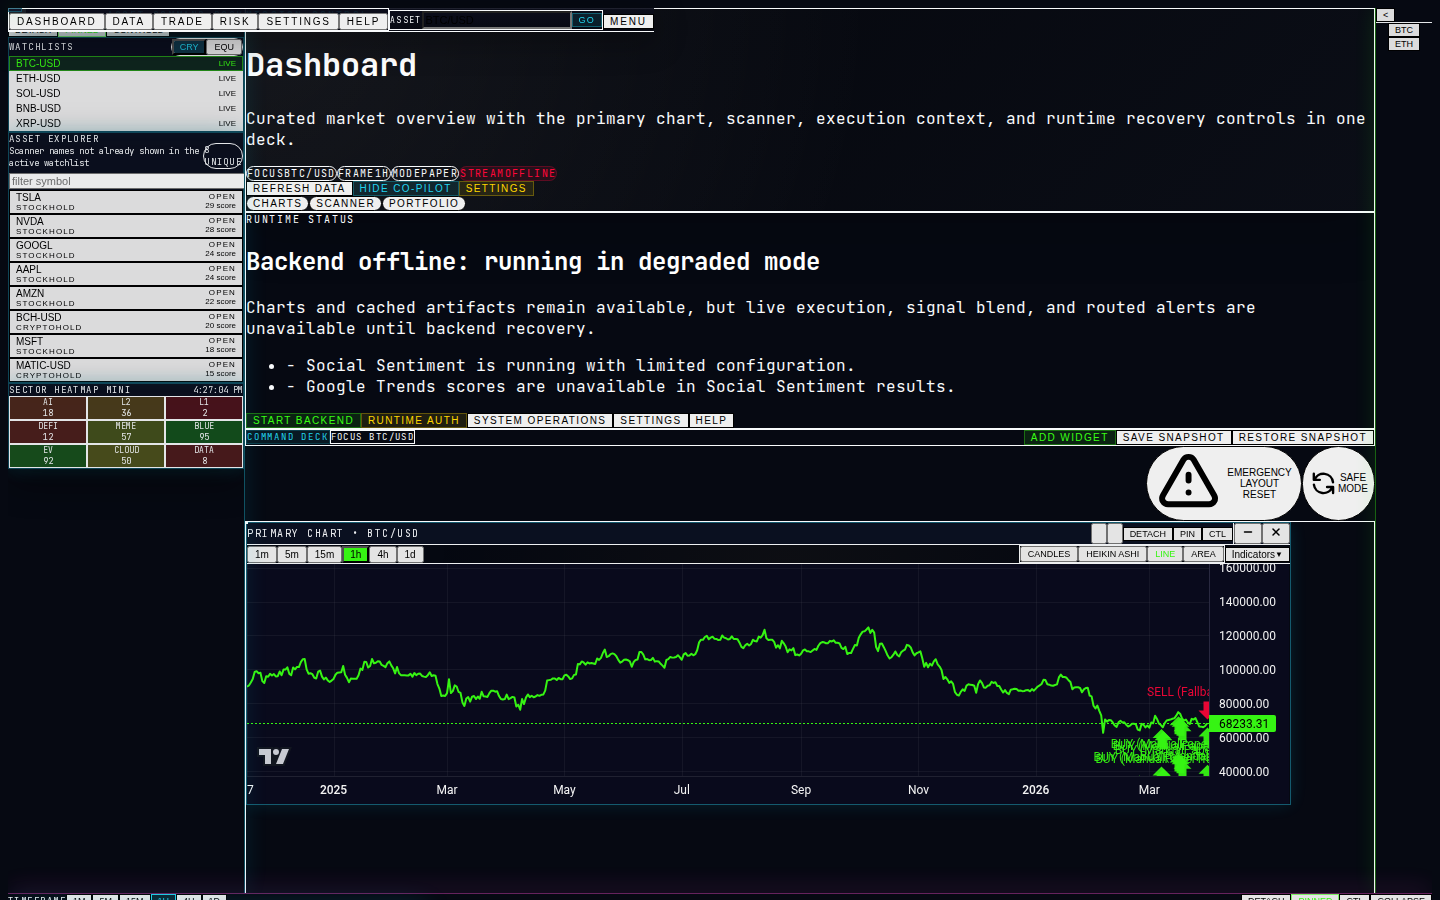
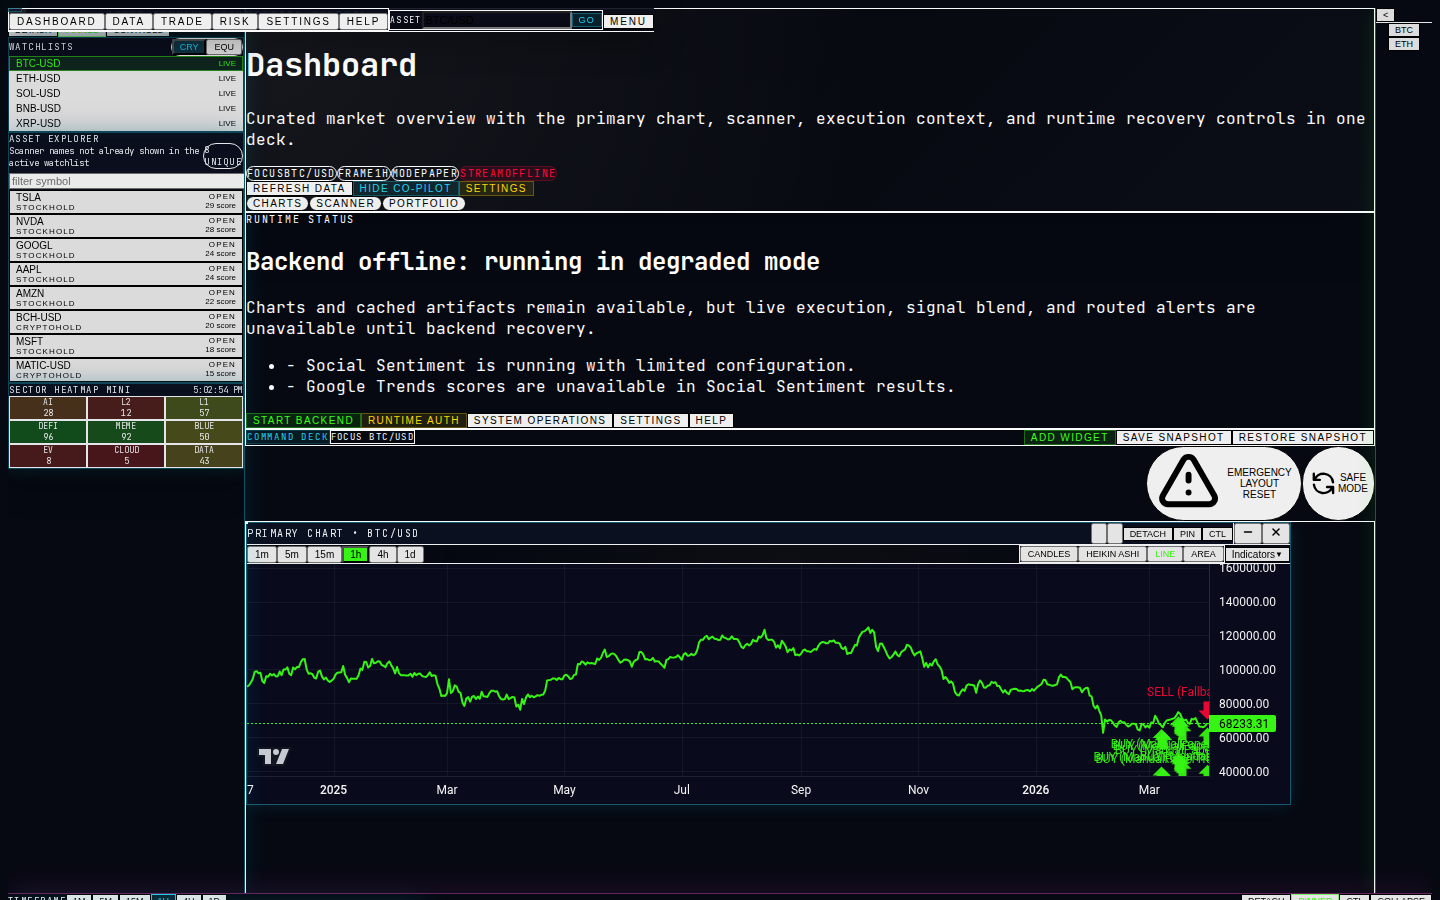
chore(showcase): refresh live app UI screenshots (5 running stacks)
Re-captured manual-tier previews for CandleCompass, IdeaForge, LedgerLoop,
PharmPhreak, and SavigeSystemZ.com; updated operator report and release media.

Changed region(s): [[0.0, 0.4356, 0.1875, 0.5289]]

diff --git a/docs/CATALOG_UI_SCREENSHOT_REPORT.md b/docs/CATALOG_UI_SCREENSHOT_REPORT.md
@@ -1,6 +1,6 @@
 # Catalog UI screenshot report
 
-Generated: 2026-06-07T20:27:08.557Z
+Generated: 2026-06-07T21:02:59.084Z
 
 Site: http://127.0.0.1:43907
 
@@ -9,15 +9,16 @@ Site: http://127.0.0.1:43907
 | Metric | Count |
 |--------|------:|
 | Catalog applications | 52 |
-| Live app UI captured | 4 |
+| Live app UI captured | 5 |
 | Catalog detail captured | 0 |
-| Needs operator action | 48 |
+| Needs operator action | 47 |
 
 ## Live app UI captures
 
 - **CandleCompass** (`candlecompass`) — `/showcase/manual/candlecompass/preview.png` from http://127.0.0.1:3967
 - **IdeaForge** (`ideaforge`) — `/showcase/manual/ideaforge/preview.png` from http://127.0.0.1:41287
 - **LedgerLoop** (`ledgerloop`) — `/showcase/manual/ledgerloop/preview.png` from http://127.0.0.1:3847
+- **PharmPhreak** (`pharmphreak`) — `/showcase/manual/pharmphreak/preview.png` from http://127.0.0.1:38224
 - **SavigeSystemZ.com** (`savigesystemz-com`) — `/showcase/manual/savigesystemz-com/preview.png` from http://127.0.0.1:43907
 
 
@@ -72,8 +73,10 @@ Site: http://127.0.0.1:43907
 
 ### DeepWeave (`deepweave`)
 
-- **Status:** app_no_http_surface
-- **Detail:** No local launch URL in registry or sibling .env.example.
+- **Status:** app_not_running
+- **Detail:** Dev server not responding at http://127.0.0.1:38205.
+- **Expected URL:** http://127.0.0.1:38205
+- **Start hint:** cd /home/whyte/.MyAppZ/DeepWeave && inspect .env.example / ops/LOCAL_DEV_PORTS.md / README for dev start
 
 ### EtherTrain-44 (`ethertrain-44`)
 
@@ -88,13 +91,17 @@ Site: http://127.0.0.1:43907
 
 ### FlipHole (`fliphole`)
 
-- **Status:** app_no_http_surface
-- **Detail:** No local launch URL in registry or sibling .env.example.
+- **Status:** app_not_running
+- **Detail:** Dev server not responding at http://127.0.0.1:38207.
+- **Expected URL:** http://127.0.0.1:38207
+- **Start hint:** cd /home/whyte/.MyAppZ/FlipHole && inspect .env.example / ops/LOCAL_DEV_PORTS.md / README for dev start
 
 ### ForgeCouncil (`forgecouncil`)
 
-- **Status:** app_no_http_surface
-- **Detail:** No local launch URL in registry or sibling .env.example.
+- **Status:** app_not_running
+- **Detail:** Dev server not responding at http://127.0.0.1:38208.
+- **Expected URL:** http://127.0.0.1:38208
+- **Start hint:** cd /home/whyte/.MyAppZ/ForgeCouncil && inspect .env.example / ops/LOCAL_DEV_PORTS.md / README for dev start
 
 ### FWST (`fwst`)
 
@@ -130,8 +137,10 @@ Site: http://127.0.0.1:43907
 
 ### LuxeLogic (`luxelogic`)
 
-- **Status:** app_no_http_surface
-- **Detail:** No local launch URL in registry or sibling .env.example.
+- **Status:** app_not_running
+- **Detail:** Dev server not responding at http://127.0.0.1:38301.
+- **Expected URL:** http://127.0.0.1:38301
+- **Start hint:** cd /home/whyte/.MyAppZ/LuxeLogic && inspect .env.example / ops/LOCAL_DEV_PORTS.md / README for dev start
 
 ### MetaCommander-44 (`metacommander-44`)
 
@@ -150,8 +159,10 @@ Site: http://127.0.0.1:43907
 
 ### ModPilot (`modpilot`)
 
-- **Status:** app_no_http_surface
-- **Detail:** No local launch URL in registry or sibling .env.example.
+- **Status:** app_not_running
+- **Detail:** Dev server not responding at http://127.0.0.1:18080.
+- **Expected URL:** http://127.0.0.1:18080
+- **Start hint:** cd /home/whyte/.MyAppZ/ModPilot && inspect .env.example / ops/LOCAL_DEV_PORTS.md / README for dev start
 
 ### OmniForgeNexus-44 (`omniforgenexus-44`)
 
@@ -160,23 +171,22 @@ Site: http://127.0.0.1:43907
 
 ### Orignym (`orignym`)
 
-- **Status:** app_no_http_surface
-- **Detail:** No local launch URL in registry or sibling .env.example.
+- **Status:** app_not_running
+- **Detail:** Dev server not responding at http://127.0.0.1:38215.
+- **Expected URL:** http://127.0.0.1:38215
+- **Start hint:** cd /home/whyte/.MyAppZ/Orignym && inspect .env.example / ops/LOCAL_DEV_PORTS.md / README for dev start
 
 ### PalmOracle (`palmoracle`)
 
 - **Status:** app_no_http_surface
 - **Detail:** No local launch URL in registry or sibling .env.example.
 
-### PharmPhreak (`pharmphreak`)
-
-- **Status:** app_no_http_surface
-- **Detail:** No local launch URL in registry or sibling .env.example.
-
 ### PromptMage (`promptmage`)
 
-- **Status:** app_no_http_surface
-- **Detail:** No local launch URL in registry or sibling .env.example.
+- **Status:** app_not_running
+- **Detail:** Dev server not responding at http://127.0.0.1:38216.
+- **Expected URL:** http://127.0.0.1:38216
+- **Start hint:** cd /home/whyte/.MyAppZ/PromptMage && inspect .env.example / ops/LOCAL_DEV_PORTS.md / README for dev start
 
 ### RSIGlobe (`rsiglobe`)
 
@@ -195,8 +205,10 @@ Site: http://127.0.0.1:43907
 
 ### SavigeAI (`savigeai`)
 
-- **Status:** app_no_http_surface
-- **Detail:** No local launch URL in registry or sibling .env.example.
+- **Status:** app_not_running
+- **Detail:** Dev server not responding at http://127.0.0.1:38200.
+- **Expected URL:** http://127.0.0.1:38200
+- **Start hint:** cd /home/whyte/.MyAppZ/SavigeAI && inspect .env.example / ops/LOCAL_DEV_PORTS.md / README for dev start
 
 ### SavOpZ (`savopz`)
 
@@ -205,8 +217,10 @@ Site: http://127.0.0.1:43907
 
 ### ShadowCall (`shadowcall`)
 
-- **Status:** app_no_http_surface
-- **Detail:** No local launch URL in registry or sibling .env.example.
+- **Status:** app_not_running
+- **Detail:** Dev server not responding at http://127.0.0.1:38218.
+- **Expected URL:** http://127.0.0.1:38218
+- **Start hint:** cd /home/whyte/.MyAppZ/ShadowCall && inspect .env.example / ops/LOCAL_DEV_PORTS.md / README for dev start
 
 ### Shards of Savige: The First Crown (`sos-the-first-crown`)
 
@@ -230,8 +244,10 @@ Site: http://127.0.0.1:43907
 
 ### SteadyStack (`steadystack`)
 
-- **Status:** app_no_http_surface
-- **Detail:** No local launch URL in registry or sibling .env.example.
+- **Status:** app_not_running
+- **Detail:** Dev server not responding at http://127.0.0.1:38219.
+- **Expected URL:** http://127.0.0.1:38219
+- **Start hint:** cd /home/whyte/.MyAppZ/SteadyStack && inspect .env.example / ops/LOCAL_DEV_PORTS.md / README for dev start
 
 ### TechPulseBriefs-44 (`techpulsebriefs-44`)
 
@@ -250,8 +266,10 @@ Site: http://127.0.0.1:43907
 
 ### VERITAS (`veritas`)
 
-- **Status:** app_no_http_surface
-- **Detail:** No local launch URL in registry or sibling .env.example.
+- **Status:** app_not_running
+- **Detail:** Dev server not responding at http://127.0.0.1:46300.
+- **Expected URL:** http://127.0.0.1:46300
+- **Start hint:** cd /home/whyte/.MyAppZ/Veritas && inspect .env.example / ops/LOCAL_DEV_PORTS.md / README for dev start
 
 ### Vetraxis (`vetraxis`)
 